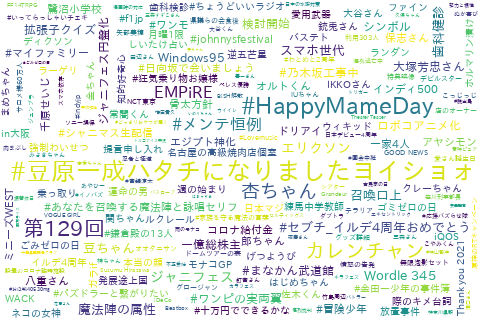
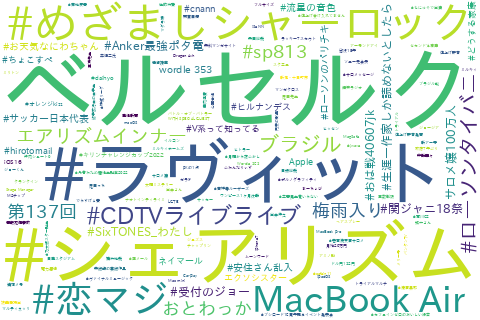
fix:wc

diff --git a/wc.py b/wc.py
@@ -4,7 +4,7 @@ from database import get_trends
 
 
 # トレンドからwordcloudを作成
-def makeWc():
+def createWc():
     trends_day = get_trends()
     
     d = defaultdict(list)
@@ -19,7 +19,7 @@ def makeWc():
         n = len(v)
         for rank in v:
             score += 1/rank
-        d_score[k] = score*n
+        d_score[k] = score/n
     
     font_path = ".fonts/ipaexg00401/ipaexg.ttf"
     wc = WordCloud(font_path=font_path, width=480, height=320, background_color="white", max_font_size=100).fit_words(d_score)
@@ -29,4 +29,4 @@ def makeWc():
 
 
 if __name__ == "__main__":
-    makeWc()
+    createWc()

diff --git a/app.py b/app.py
@@ -2,7 +2,7 @@ from flask import Flask, render_template
 from database import db_session, get_trends
 from database import db_session, get_trends, store_ttrends, delete_ttrends
 from apscheduler.schedulers.background import BackgroundScheduler
-from wc import makeWc
+from wc import createWc
 
 
 app = Flask(__name__)
